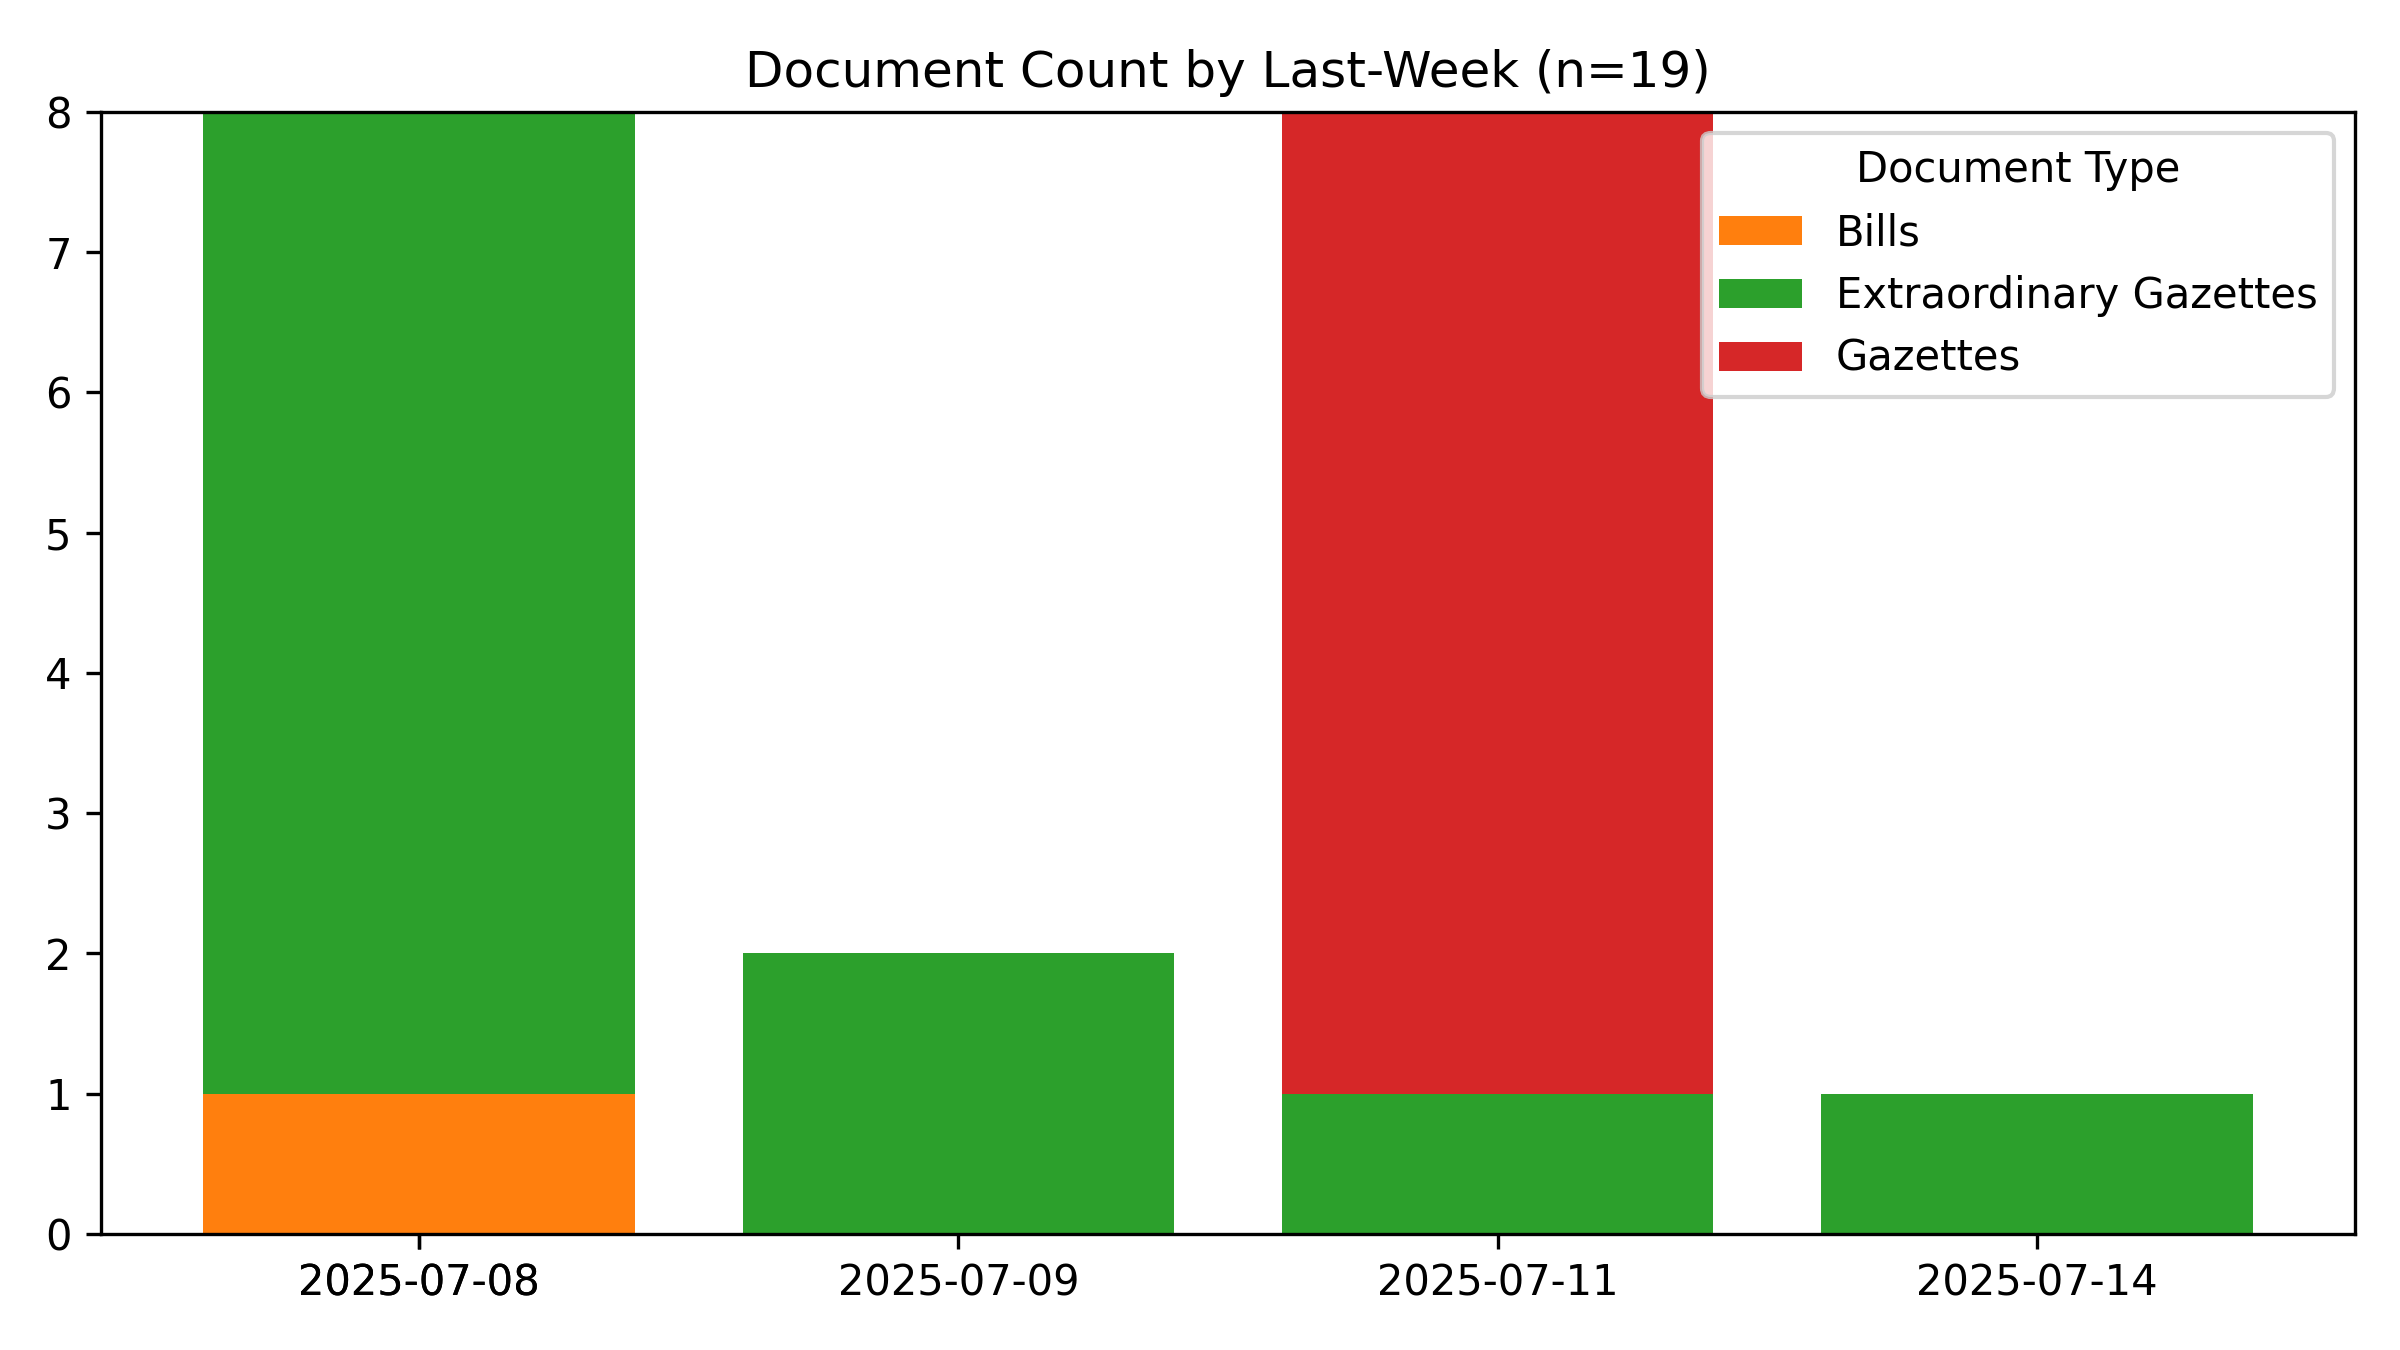
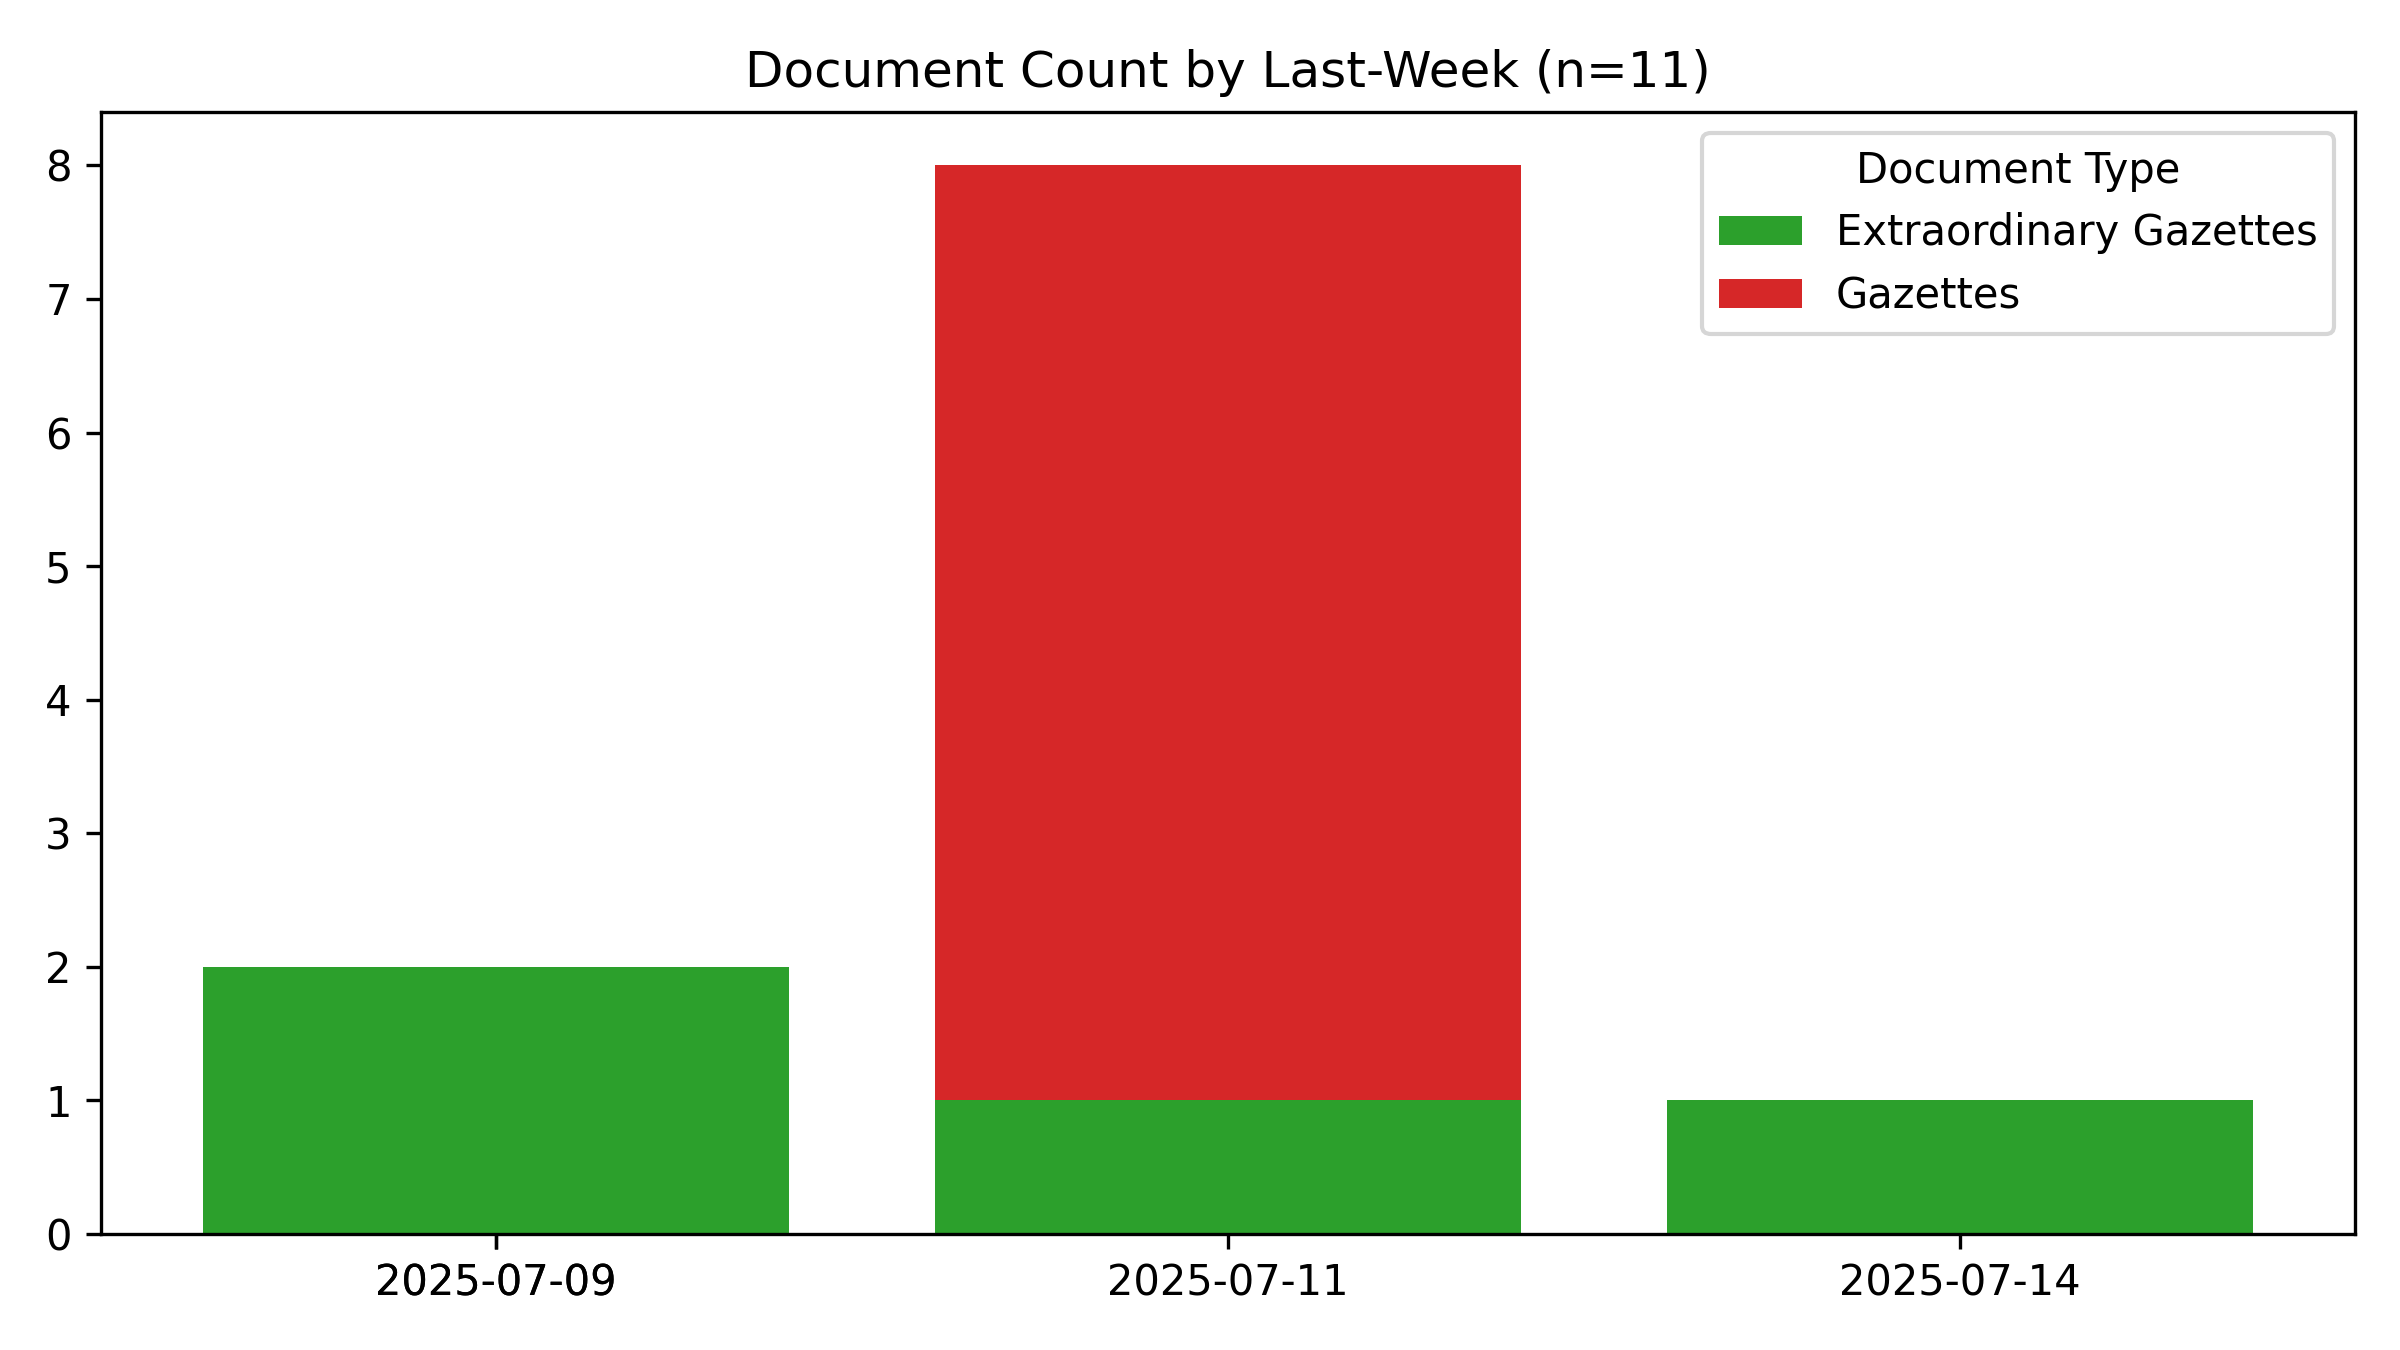
🤖 [data_scraper.yml] 2025-07-16-0005

diff --git a/README.md b/README.md
@@ -1,6 +1,6 @@
 # #SriLanka 🇱🇰 - Legal Documents #Dataset
 
-*Last Updated **2025-07-16 05:17:48**.*
+*Last Updated **2025-07-16 05:35:23**.*
 
 **44,012** documents (40.9 MB), from 1981-01-22 to 2025-07-14.
 
@@ -16,7 +16,7 @@ A collection of 📢 Gazettes, 🚨 Extraordinary Gazettes, 🏛 Acts, ✍
 
 #Legal #OpenData #GovTech
 
-📄 Currently, 35,969 PDFs (15.4 GB) for **13,098** documents (29.8%) have been downloaded. Final data size is estimated to be ~52 GB.
+📄 Currently, 36,051 PDFs (15.4 GB) for **13,127** documents (29.8%) have been downloaded. Final data size is estimated to be ~52 GB.
 
 ## 🆕 The Legal Documents App
 
@@ -45,7 +45,7 @@ For best results, use a desktop browser.
 
 ## Recent Documents (Published during the last 7 days)
 
-**19** Documents
+**11** Documents
 
 - 🚨 [2025-07-14] [Sri Lanka Customs - Rates of Exchange with effect from 14.07.2025 to 20.07.2025](https://github.com/nuuuwan/lk_legal_docs_data/tree/main/data/extra-gazettes/2025/2445-01)
 - 🚨 [2025-07-11] [Election Commission - Notice under Section 66 (2) Elected to Members for 08 L.G Institutions](https://github.com/nuuuwan/lk_legal_docs_data/tree/main/data/extra-gazettes/2025/2444-60)
@@ -58,11 +58,3 @@ For best results, use a desktop browser.
 - 📢 [2025-07-11] [(I) - General](https://github.com/nuuuwan/lk_legal_docs_data/tree/main/data/gazettes/2025/2025-07-11-i-general)
 - 🚨 [2025-07-09] [Department of Local Government - Southern Province - Notice Under Section 66 C (1) Appointed Mayor, Deputy Mayor, Chairman and Vice Chairman for 14 L.G. Institutions](https://github.com/nuuuwan/lk_legal_docs_data/tree/main/data/extra-gazettes/2025/2444-31)
 - 🚨 [2025-07-09] [2444/26](https://github.com/nuuuwan/lk_legal_docs_data/tree/main/data/extra-gazettes/2025/2444-26)
-- ✍ [2025-07-08] [Penal Code (Amendment) - GS](https://github.com/nuuuwan/lk_legal_docs_data/tree/main/data/bills/2025/618-2025)
-- 🚨 [2025-07-08] [Ministry of Education, Higher Education and Vocational Education - Service Minute of the Sri Lanka Teachers' Service 3rd Amendment](https://github.com/nuuuwan/lk_legal_docs_data/tree/main/data/extra-gazettes/2025/2444-21)
-- 🚨 [2025-07-08] [2444/18](https://github.com/nuuuwan/lk_legal_docs_data/tree/main/data/extra-gazettes/2025/2444-18)
-- 🚨 [2025-07-08] [Department of Local Government - Southern Province - Notice Under Section 66 C (1) Appointed Mayor, Deputy Mayor, Chairman and Vice Chairman for L.G. Institutions](https://github.com/nuuuwan/lk_legal_docs_data/tree/main/data/extra-gazettes/2025/2444-16)
-- 🚨 [2025-07-08] [Department of Local Government - Southern Province - Notice Under Section 66 C (4) Appointed Chairman and Vice Chairman for Weligama Pradeshiya Sabha](https://github.com/nuuuwan/lk_legal_docs_data/tree/main/data/extra-gazettes/2025/2444-15)
-- 🚨 [2025-07-08] [2444/12](https://github.com/nuuuwan/lk_legal_docs_data/tree/main/data/extra-gazettes/2025/2444-12)
-- 🚨 [2025-07-08] [Thirukkovil - District Secretariat - Pilgrimages Ordinance Annual Sri Siththira Velayutha Swami Temple Annual Festival - 2025](https://github.com/nuuuwan/lk_legal_docs_data/tree/main/data/extra-gazettes/2025/2444-11)
-- 🚨 [2025-07-08] [District Secretariat - Galle - Pilgrimages Ordinance Annual Esala Festival and Procession at the Annual Esala festival and Procession at the Historic Seenigama Sri Devol Maha Devalaya - 2025.](https://github.com/nuuuwan/lk_legal_docs_data/tree/main/data/extra-gazettes/2025/2444-10)
